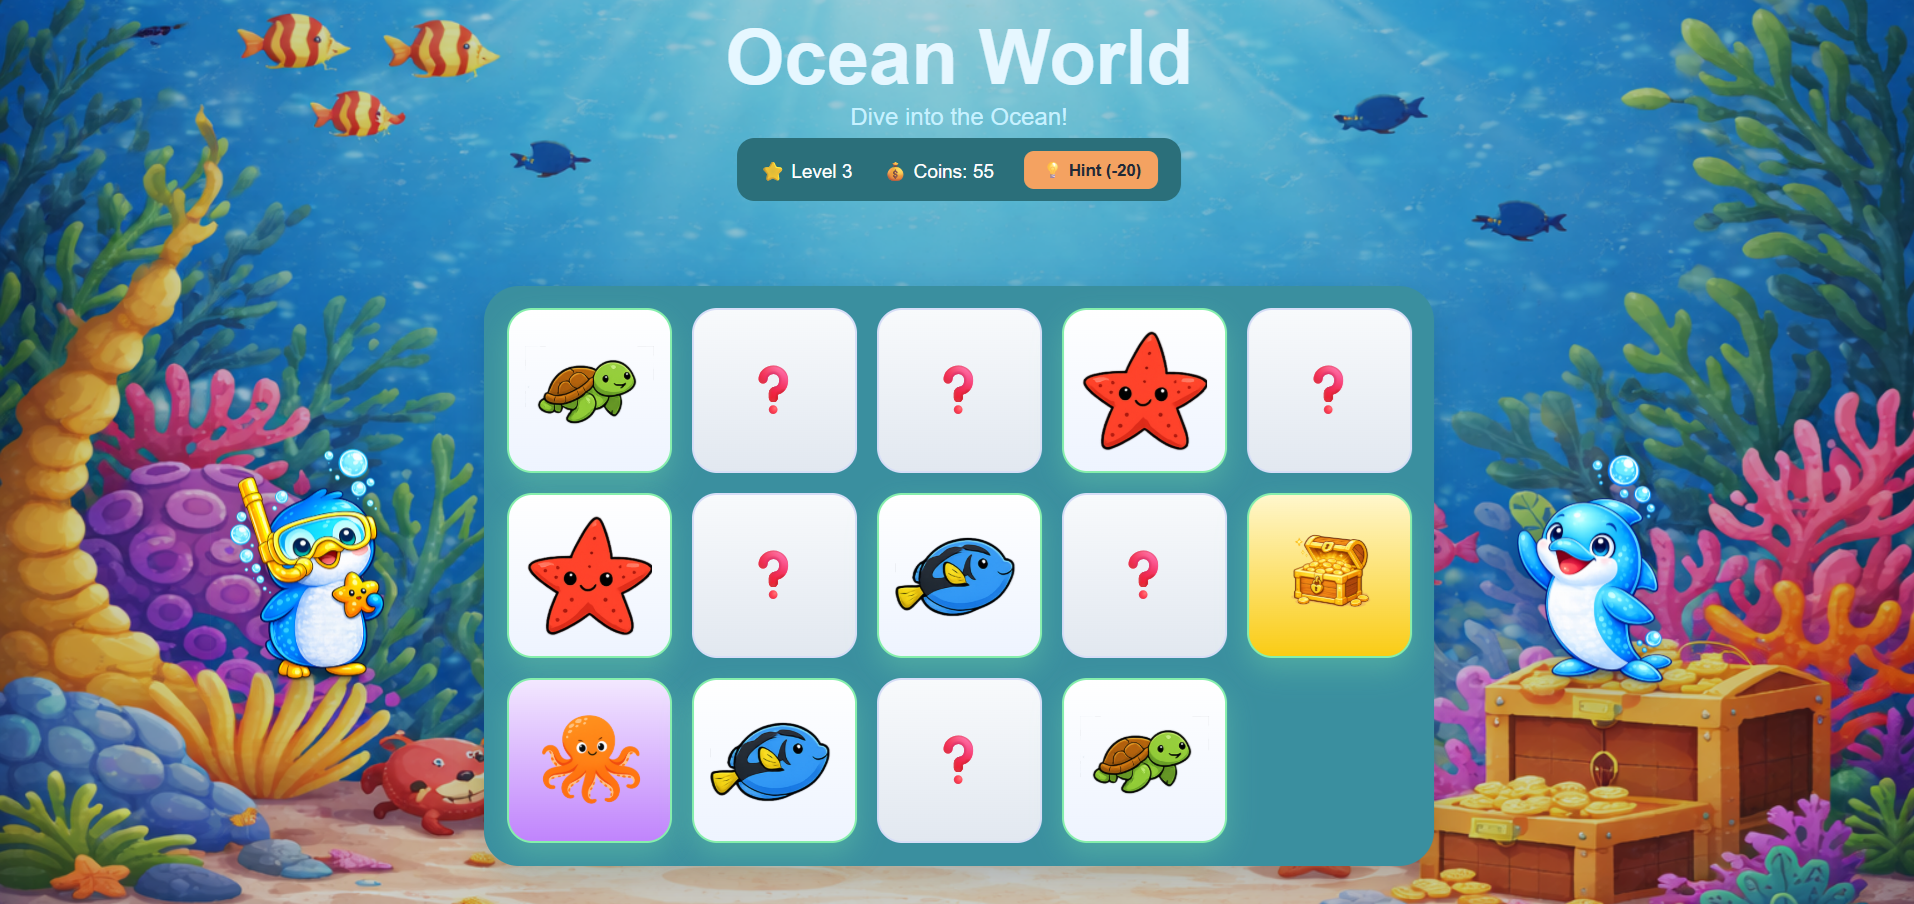
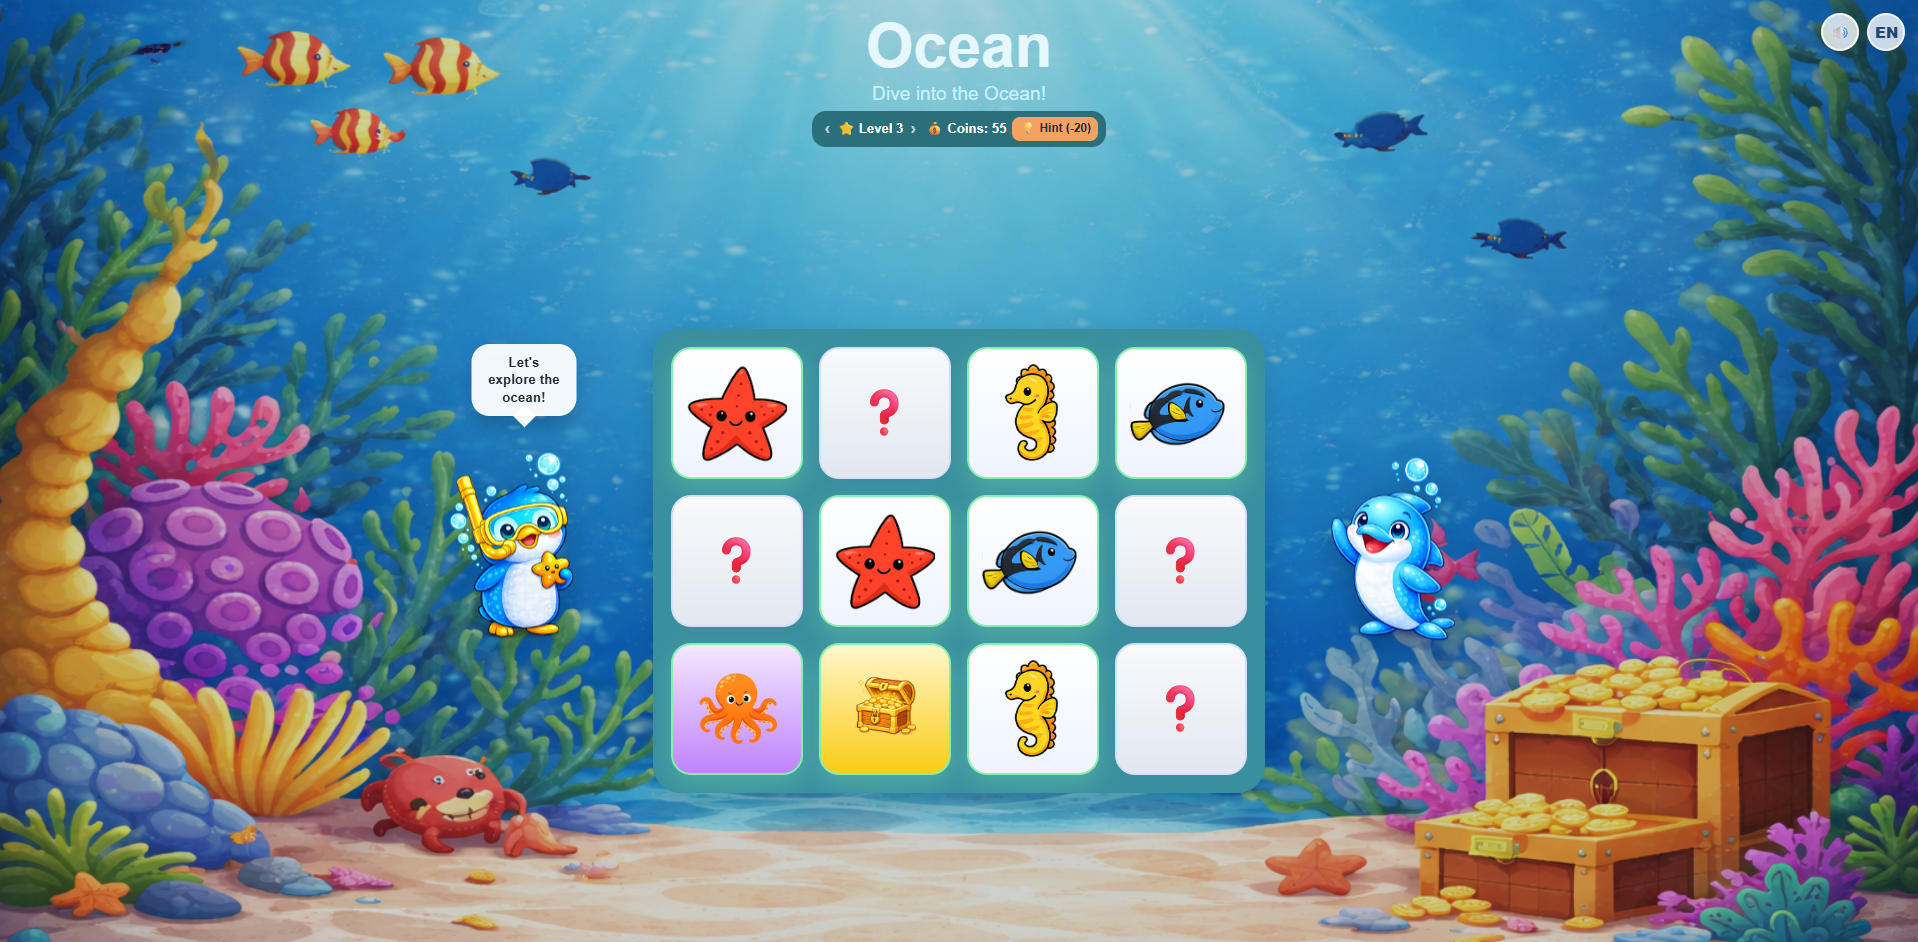
improve readme

diff --git a/README.md b/README.md
@@ -88,7 +88,7 @@ The game is designed with simple educational goals in mind:
 
 ## 👶 Real User Testing
 
-The game has been tested with a real young user — my 5-year-old child — helping guide design decisions around interaction, clarity, pacing, and feedback.
+The game has been continuously tested with a real young user — my 5-year-old child — helping guide design decisions around interaction, clarity, pacing, difficulty progression, and feedback.
 
 This influenced:
 - simpler interactions
@@ -116,7 +116,7 @@ The game uses a structured progression system designed around increasing board s
 The game introduces two special card types:
 
 - 🎁 Treasure Cards — reward bonus coins
-- 😈 Mischief Cards — swap positions with another hidden card
+- 😈 Mischief Cards — create surprises by moving cards around the board
 
 As players progress, levels combine both mechanics to create additional challenge.
 
@@ -144,7 +144,7 @@ As players progress, levels combine both mechanics to create additional challeng
 Difficulty increases through:
 
 - Larger board sizes
-- Treasure card mechanics
+- Bonus card mechanics
 - Mischief card mechanics
 - Mixed special-card levels
 - A final celebration level combining animals from all worlds
